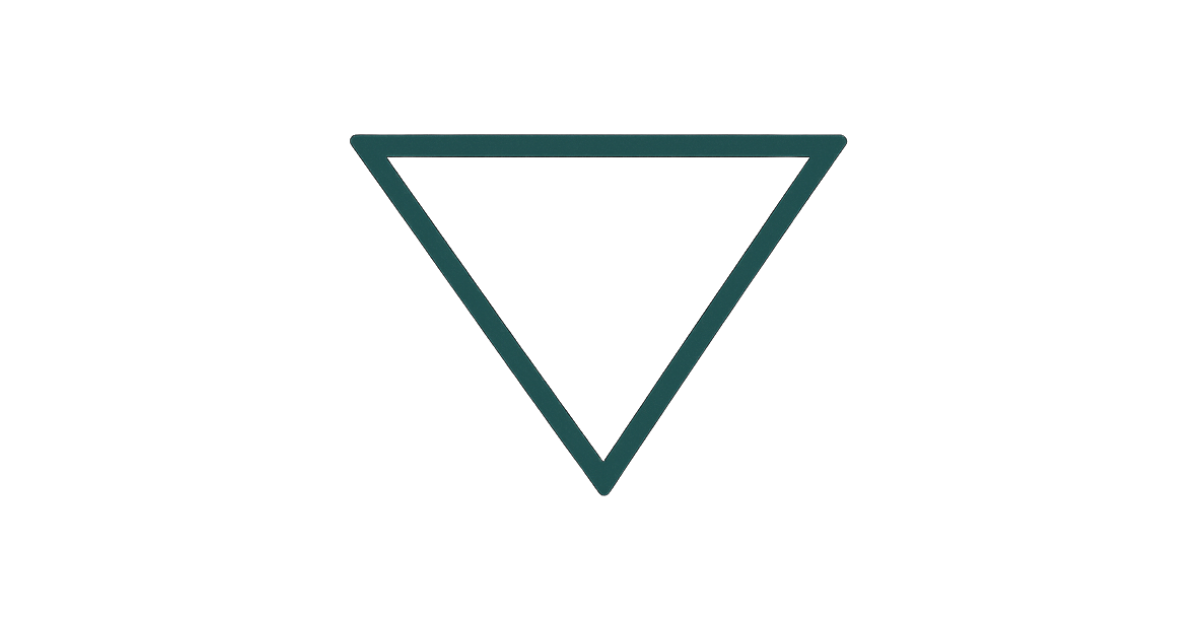
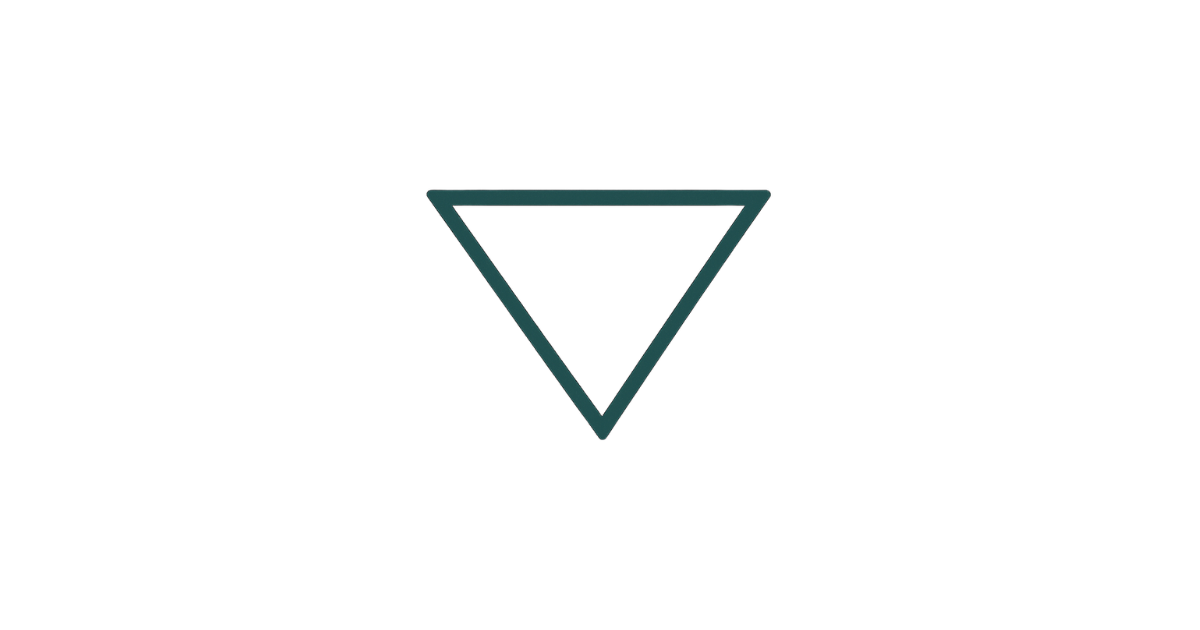
Atualiza compartilhamento e imagem social

Changed region(s): [[0.2775, 0.2111, 0.7092, 0.7841]]

diff --git a/app/participar/page.tsx b/app/participar/page.tsx
@@ -295,8 +295,11 @@ className="py-16 md:py-20 border-t border-zinc-200 mt-20">
   <div className="space-y-6">
 
     <div className="bg-white border border-zinc-200 rounded-[32px] p-8">
+
 <p className="text-lg leading-relaxed text-zinc-700 mb-6">
-  "O terceiro nível é a camada da sociedade que sustenta tudo e mantém o país funcionando, mas não tem tempo para entender o Sistema.
+  "O Terceiro Nível é a camada da sociedade que sustenta tudo e mantém o país funcionando, mas não tem tempo para entender o Sistema.
+
+  Conheça o projeto:
 
   https://terceironivel.org"
 </p>
@@ -304,7 +307,7 @@ className="py-16 md:py-20 border-t border-zinc-200 mt-20">
 <button
   onClick={() =>
     copiarMensagem(
-      "O terceiro nível é a camada da sociedade que sustenta tudo e mantém o país funcionando, mas não tem tempo para entender o Sistema.\n\nhttps://terceironivel.org",
+      "O Terceiro Nível é a camada da sociedade que sustenta tudo e mantém o país funcionando, mas não tem tempo para entender o Sistema.\n\nConheça o projeto:\n\nhttps://terceironivel.org",
       "mensagem1"
     )
   }
@@ -317,29 +320,7 @@ className="py-16 md:py-20 border-t border-zinc-200 mt-20">
 
     <div className="bg-white border border-zinc-200 rounded-[32px] p-8">
 
-      <p className="text-lg leading-relaxed text-zinc-700 mb-6">
-  "Terceiro Nível
-
-Traduzindo temas complexos para linguagem acessível.
-
-https://terceironivel.org
-"
-</p>
-
-<button
-  onClick={() =>
-    copiarMensagem(
-      "Traduzindo temas complexos para linguagem acessível.\n\nhttps://terceironivel.org",
-      "mensagem2"
-    )
-  }
-  className="w-full sm:w-auto bg-zinc-900 text-white rounded-2xl py-4 px-6 text-base font-medium hover:bg-zinc-800 transition-all duration-300"
->
-  {copiado === "mensagem2" ? "Copiado" : "Copiar mensagem"}
-
-</button>
-    </div>
-
+      
   </div>
 
 </section>